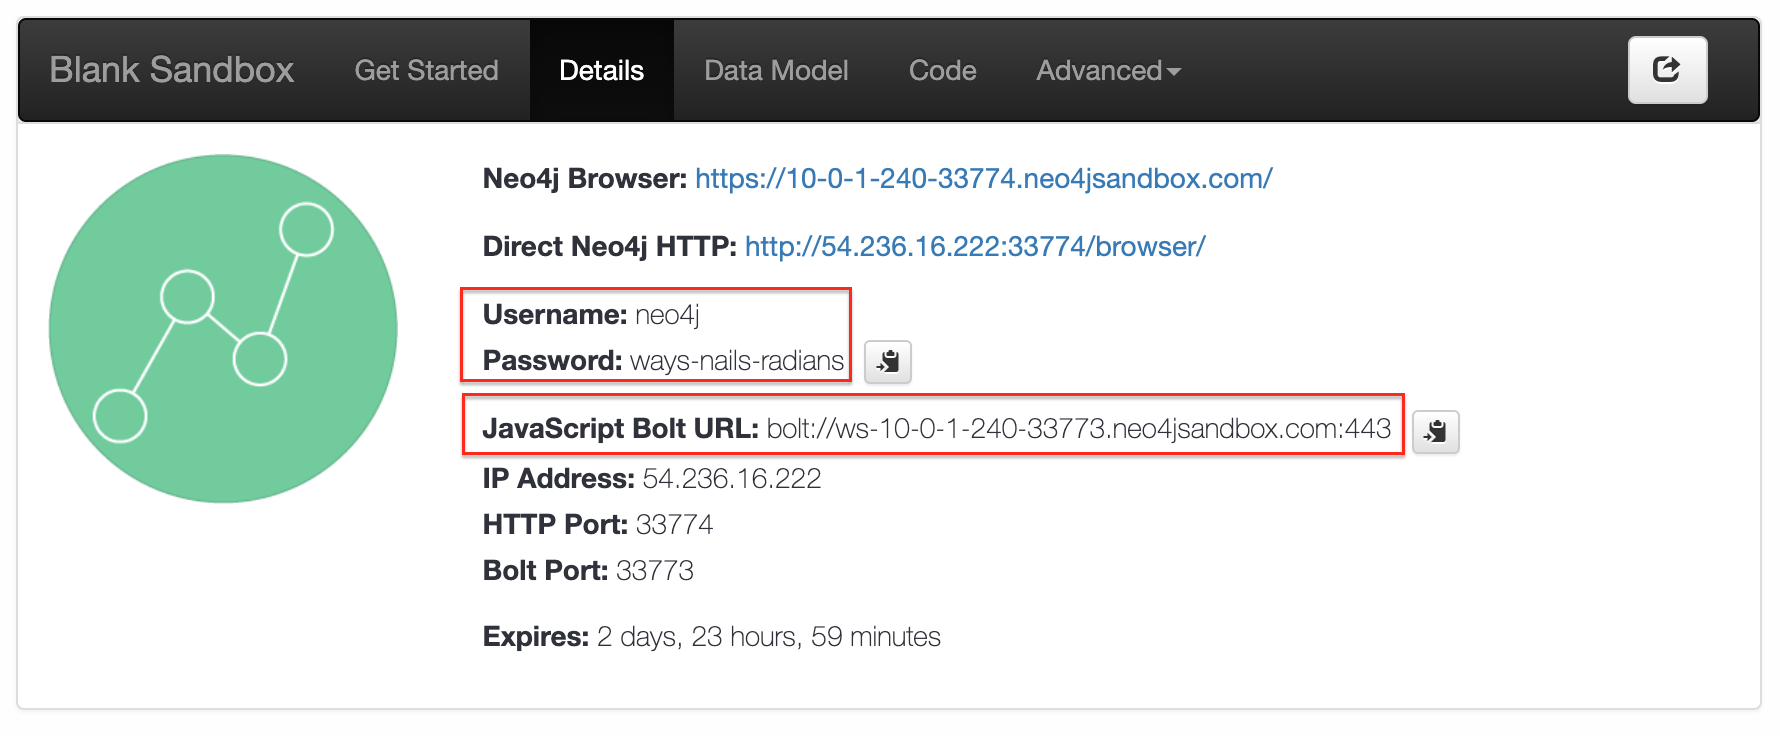
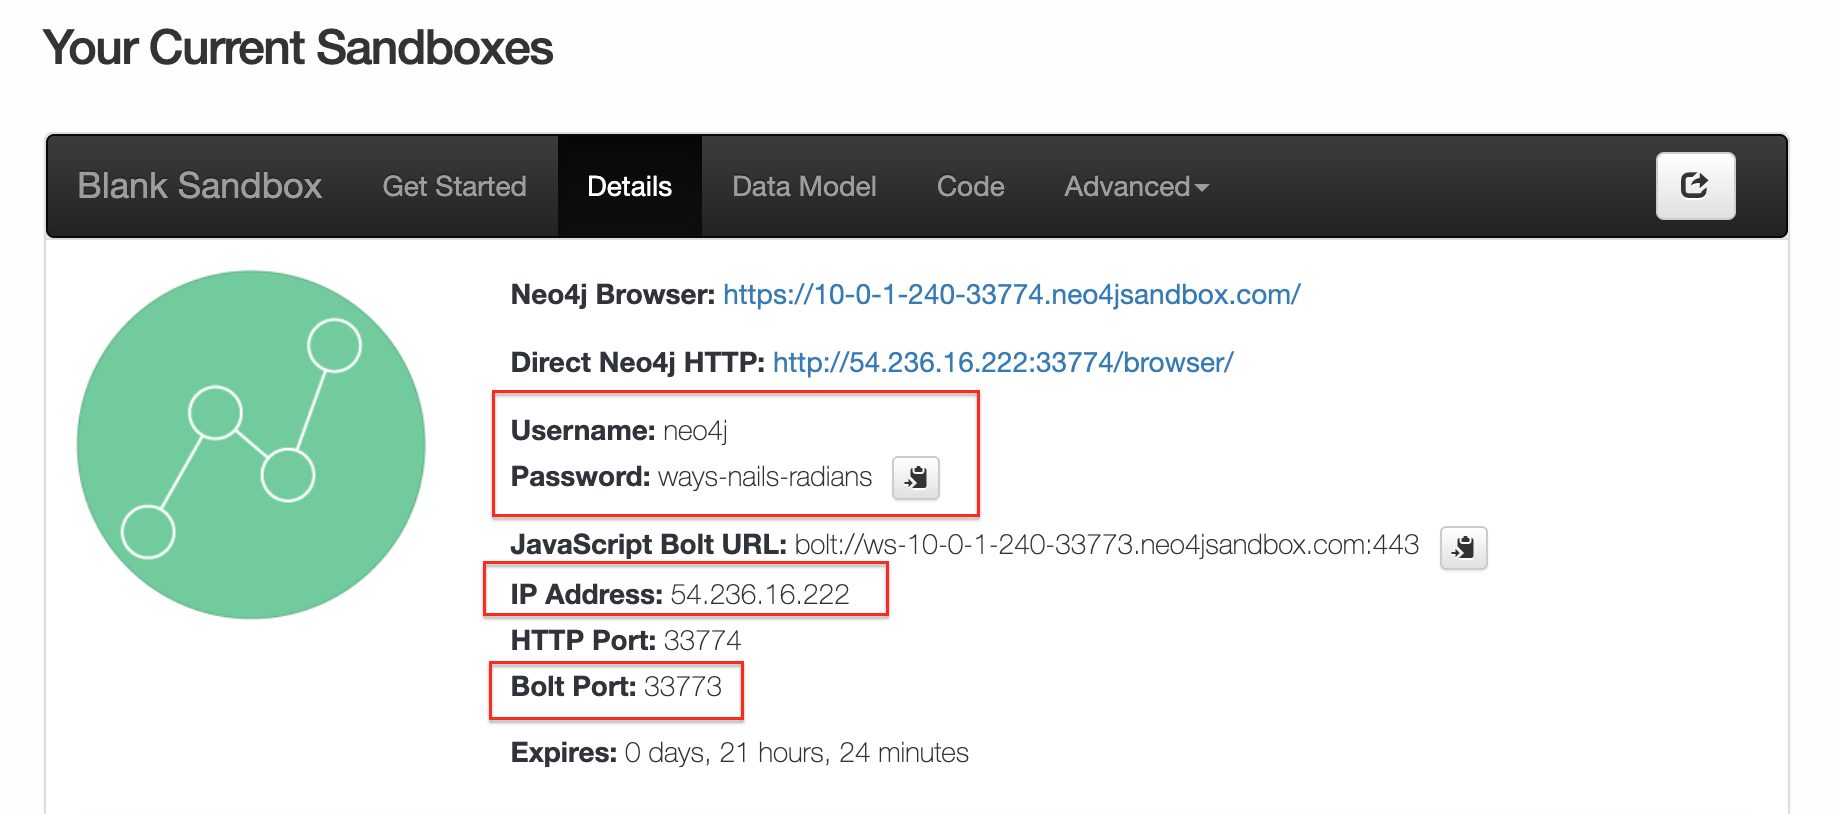
update readme

diff --git a/README.md b/README.md
@@ -77,7 +77,7 @@ npm install
 
 *Add Neo4j credentials to .env*
 
-Edit the `.env` file, adding the connection credentials for your Neo4j database. For example, if using Neo4j Sandbox, check the "Details" tab for your sandbox credentials:
+Edit the `.env` file, adding the connection credentials for your Neo4j database. If using Neo4j Sandbox, check the "Details" tab for your sandbox credentials. The value for `NEO4J_URI` will be of the format `bolt://<IP_ADDRESS>:<BOLT_PORT>`. For example, given the sandbox instance:
 
 ![](images/sandbox.png)
 
@@ -86,10 +86,10 @@ then in your `.env` file:
 ```
 NEO4J_USER=neo4j
 NEO4J_PASSWORD=ways-nails-radians
-NEO4J_URI=bolt://ws-10-0-1-240-33773.neo4jsandbox.com:443
+NEO4J_URI=bolt://54.236.16.222:33773
 ```
 
-if you are using Neo4j Desktop locally, then you `.env` file should be:
+If you are using Neo4j Desktop locally, then you `.env` file should be:
 
 ```
 NEO4J_USER=neo4j
